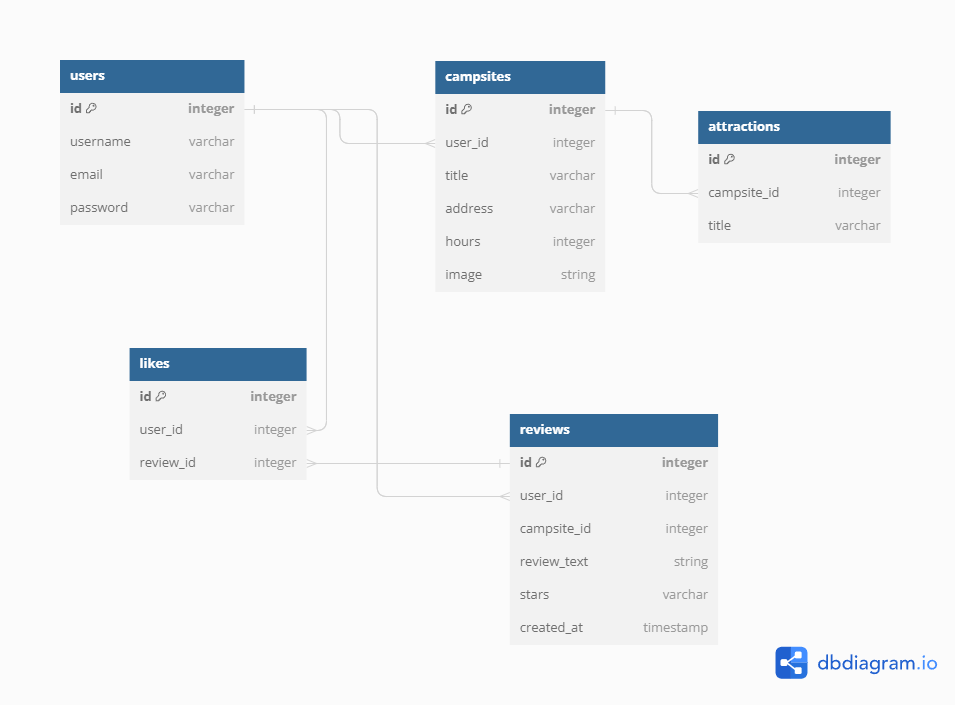
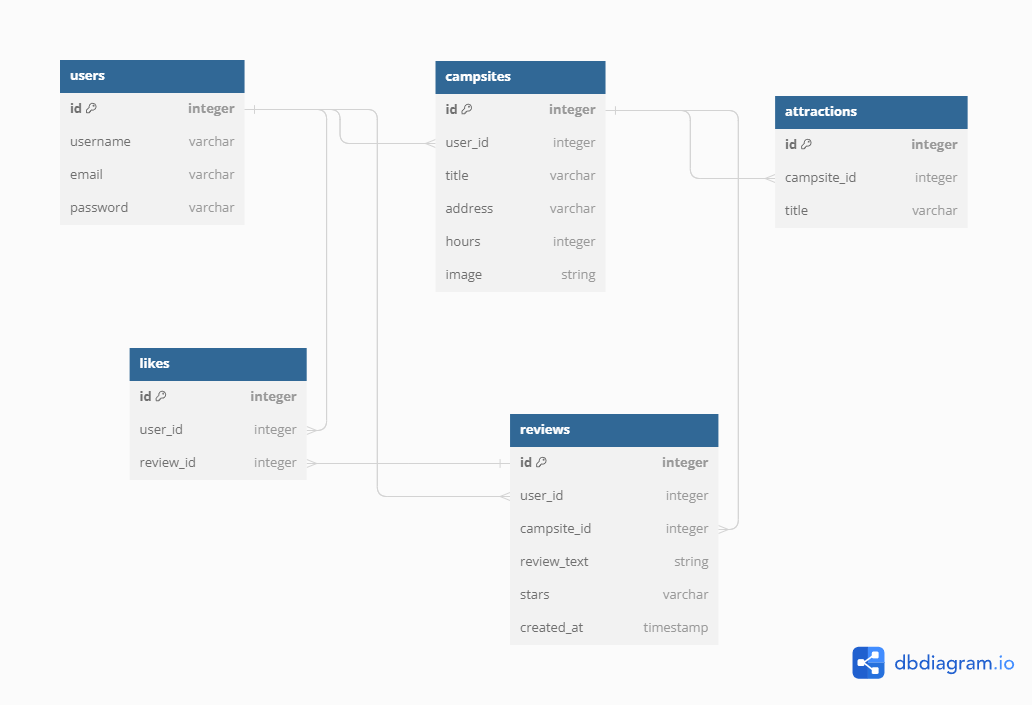
added campsite model

diff --git a/app/models/campsite.py b/app/models/campsite.py
@@ -1,0 +1,32 @@
+from .db import db, environment, SCHEMA, add_prefix_for_prod
+
+class Campsite(db.Model):
+    __tablename__ = "campsites"
+
+    if environment == "production":
+        __table_args__ = {'schema': SCHEMA}
+
+    id = db.Column(db.Integer, primary_key=True)
+    user_id = db.Column(db.Integer, db.ForeignKey(add_prefix_for_prod('users.id')), nullable=False)
+    title = db.Column(db.String(255), nullable=False)
+    address = db.Column(db.String(255), nullable=False)
+    hours = db.Integer(db.String(255), nullable=False)
+    image = db.Column(db.String(255), nullable=False)
+#relationship attributes    
+    users = db.relationship("User", back_populates="campsites")
+    attractions= db.relationship("Attraction", back_populates="campsites")
+    reviews = db.relationship("Review", back_populates="campsites")
+
+    def to_dict(self):
+        return {
+            "id": self.id,
+            "user": self.users.to_dict(),
+            "title": self.title,
+            "address": self.address,
+            "hours": self.hours,
+            "image": self.image,
+            "reviews":[review.to_dict() for review in self.reviews],
+            "attractions":[attraction.to_dict() for attraction in self.attractions],
+            "reviews_count": len(self.reviews),
+        }
+    
